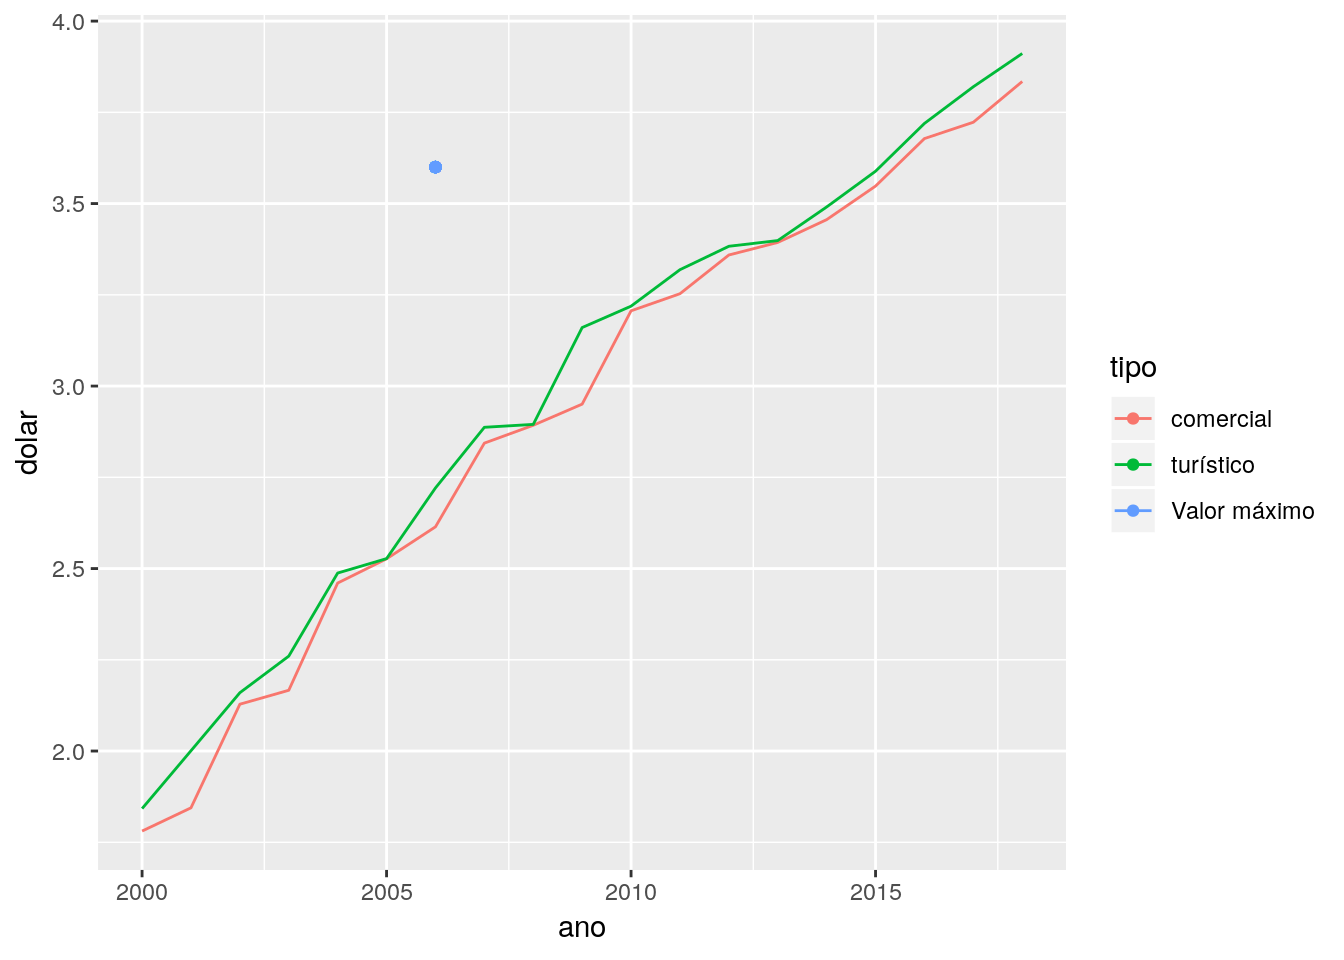
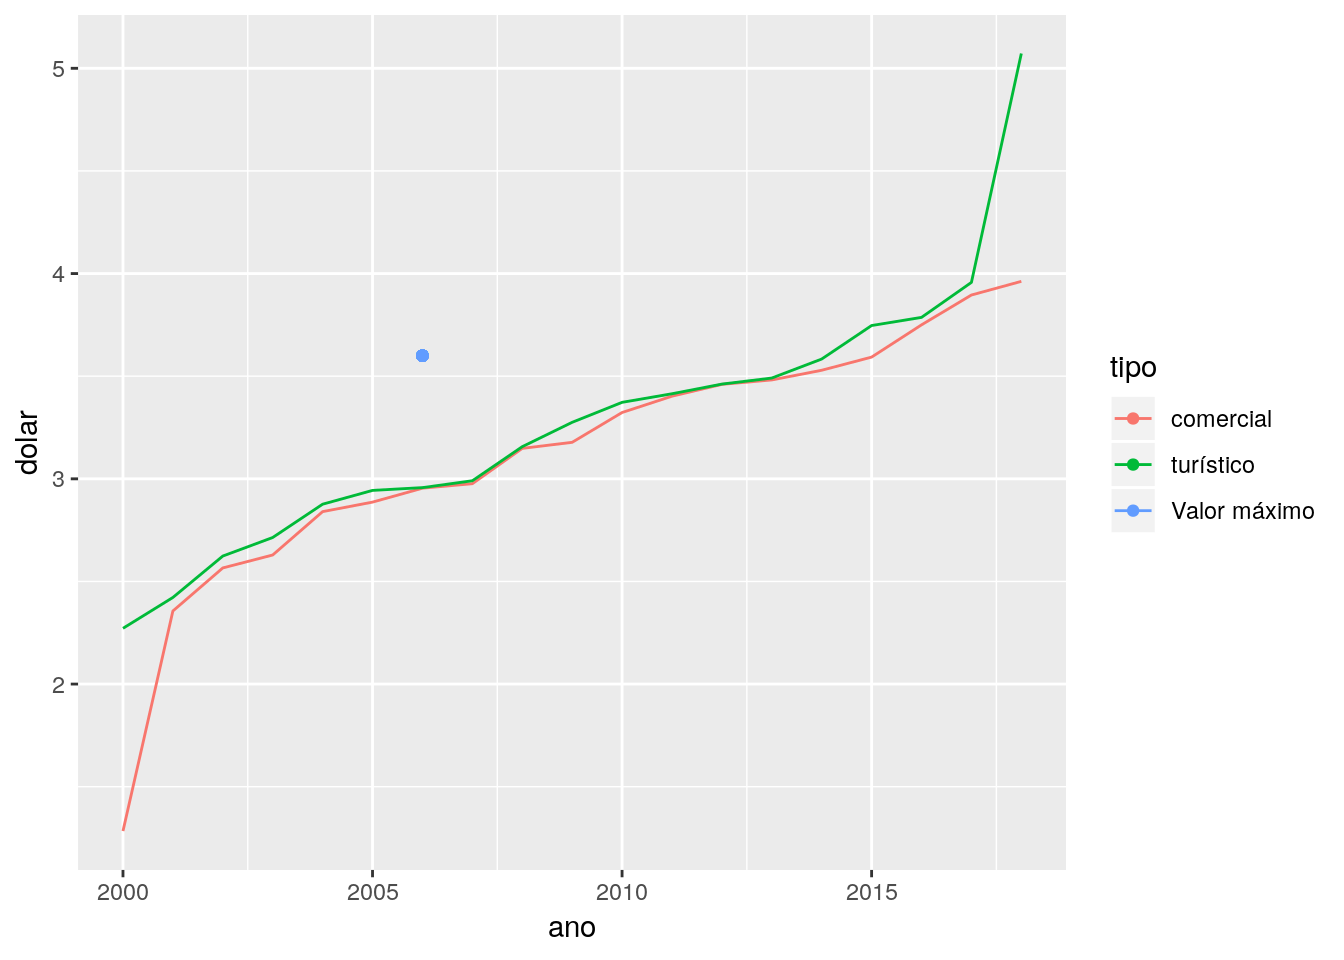
atualiza baseurl: "/"

diff --git a/public/post/manipulando-os-simbolos-na-legenda-do-ggplot2/index.html b/public/post/manipulando-os-simbolos-na-legenda-do-ggplot2/index.html
@@ -331,7 +331,7 @@ df &lt;-
 str(df)</code></pre>
 <pre><code>## &#39;data.frame&#39;:    38 obs. of  3 variables:
 ##  $ ano  : int  2000 2000 2001 2001 2002 2002 2003 2003 2004 2004 ...
-##  $ dolar: num  1.78 1.84 1.84 2 2.13 ...
+##  $ dolar: num  1.28 2.27 2.36 2.42 2.57 ...
 ##  $ tipo : Factor w/ 2 levels &quot;comercial&quot;,&quot;turístico&quot;: 1 2 1 2 1 2 1 2 1 2 ...</code></pre>
 <p>Nossos dados estão na forma de um data.frame com três colunas e 30 linhas. Digamos que trata-se realmente da evolução anual do preço médio anual do dólar em relação ao real e que queremos plotar um gráfico de série temporal da cotação média do dólar, tipo. E que queremos adicionar também um ponto num local específico do plot, representando o preço máximo do dólar no ano em que a média e o valor máximo ficaram mais distantes. Podemos fazer isso sem dificuldades com o ggplot.</p>
 </div>

diff --git a/content/post/2018-10-08-manipulando-os-simbolos-na-legenda-do-ggplot2.html b/content/post/2018-10-08-manipulando-os-simbolos-na-legenda-do-ggplot2.html
@@ -29,7 +29,7 @@ df &lt;-
 str(df)</code></pre>
 <pre><code>## &#39;data.frame&#39;:    38 obs. of  3 variables:
 ##  $ ano  : int  2000 2000 2001 2001 2002 2002 2003 2003 2004 2004 ...
-##  $ dolar: num  1.78 1.84 1.84 2 2.13 ...
+##  $ dolar: num  1.28 2.27 2.36 2.42 2.57 ...
 ##  $ tipo : Factor w/ 2 levels &quot;comercial&quot;,&quot;turístico&quot;: 1 2 1 2 1 2 1 2 1 2 ...</code></pre>
 <p>Nossos dados estão na forma de um data.frame com três colunas e 30 linhas. Digamos que trata-se realmente da evolução anual do preço médio anual do dólar em relação ao real e que queremos plotar um gráfico de série temporal da cotação média do dólar, tipo. E que queremos adicionar também um ponto num local específico do plot, representando o preço máximo do dólar no ano em que a média e o valor máximo ficaram mais distantes. Podemos fazer isso sem dificuldades com o ggplot.</p>
 </div>
